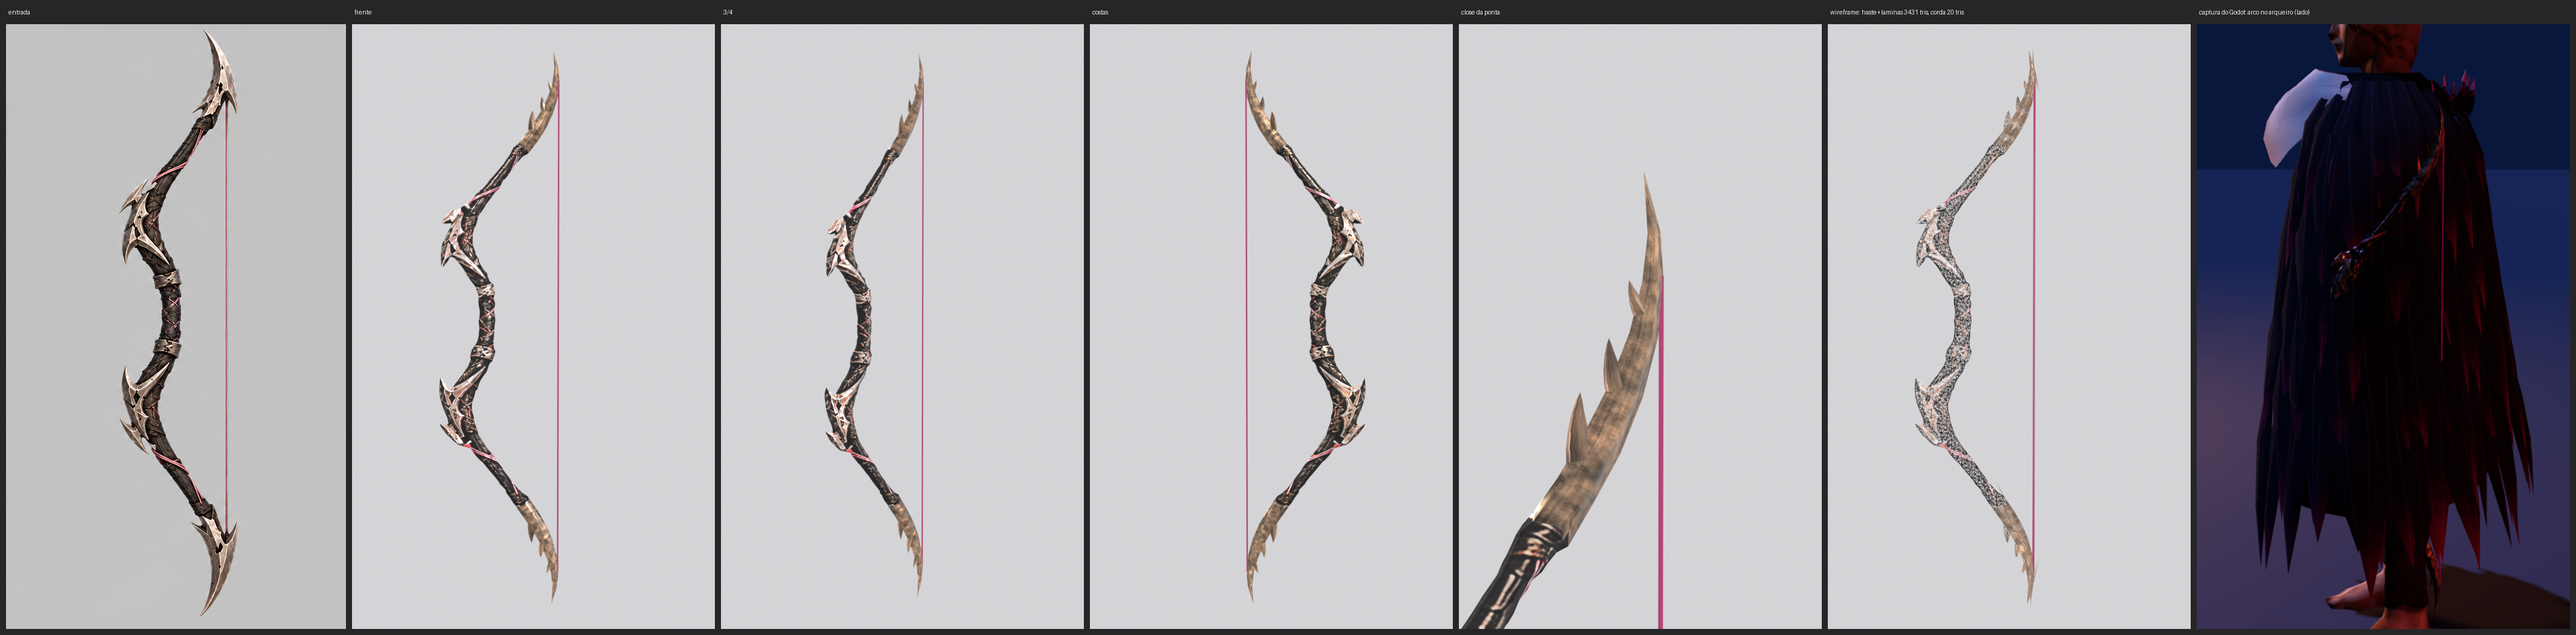
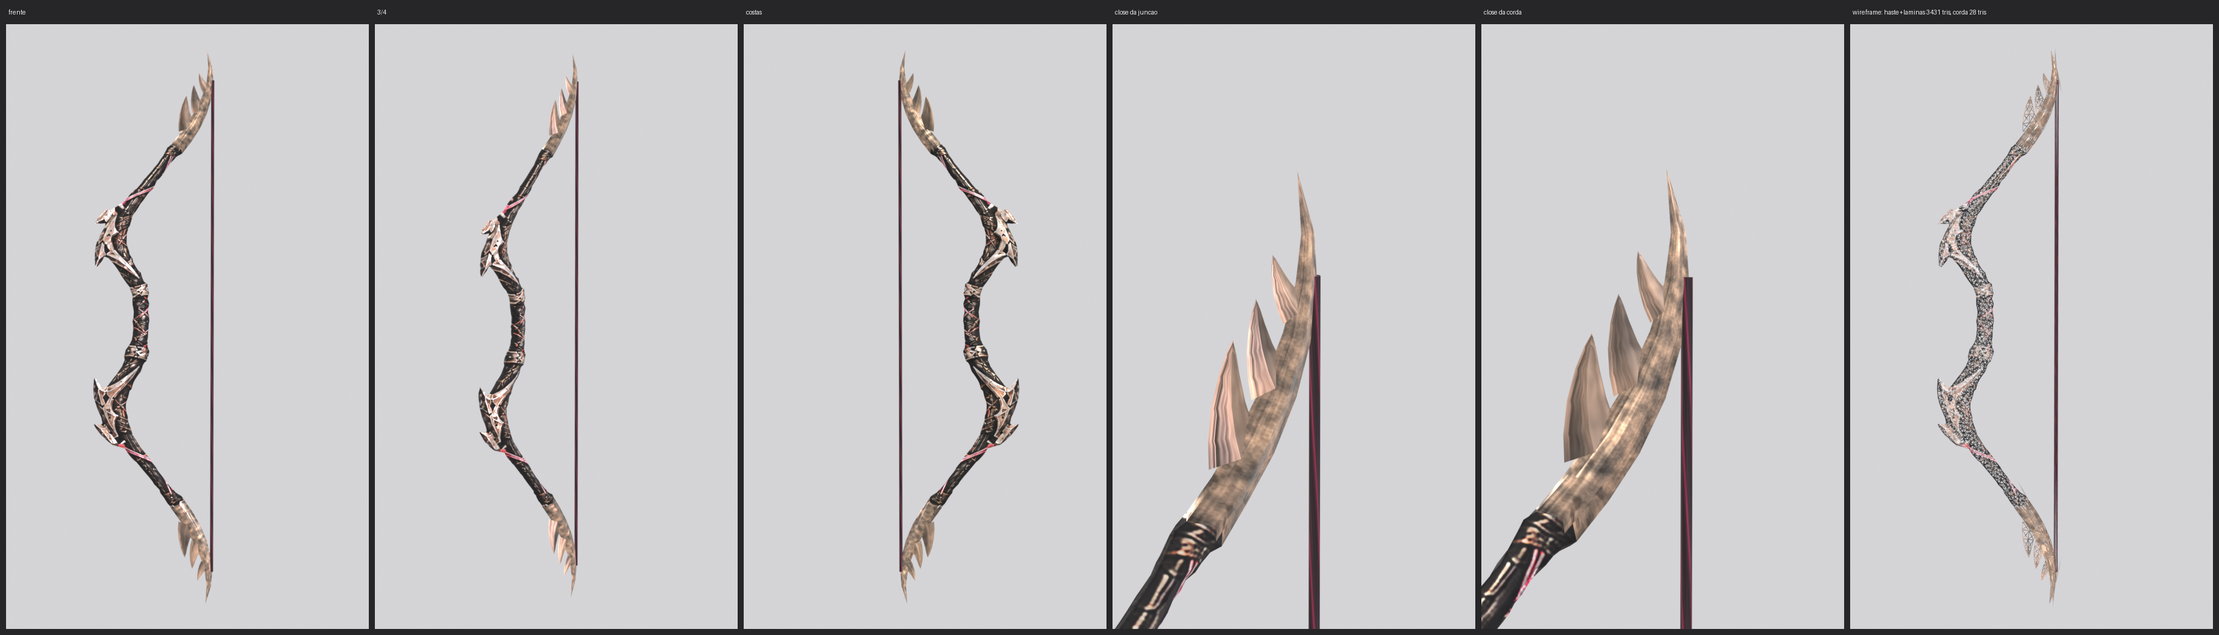
fix(arte): arco do arqueiro dark - espinhos na juncao, corda com espessura
Claude-Session: https://claude.ai/code/session_01WC4FgazM6iEKfa9eY6QmCj

diff --git a/art-src/modelos/scripts/arco_v4_export.py b/art-src/modelos/scripts/arco_v4_export.py
@@ -49,21 +49,43 @@ bpy.ops.object.join()
 bow = bpy.context.view_layer.objects.active; bow.name = "SM_ArcherDark_Bow"; bow.data.name = "SM_ArcherDark_Bow"
 for p_ in bow.data.polygons: p_.material_index = 0
 while len(bow.data.materials) > 1: bow.data.materials.pop(index=len(bow.data.materials) - 1)
-# --- corda: reta entre as ancoras, rosa-vinho fosco
+# --- corda: crina/couro trancado, 8 lados, raio 3,5 mm; textura de torcao (normal) e cor com cavidade (AO) gerada aqui
 a = Vector(inf["1"]["anchor"]); b = Vector(inf["-1"]["anchor"])
-R = 0.0017; d = (b - a).normalized(); u = d.cross(Vector((0, 1, 0))).normalized(); w = d.cross(u).normalized()
+R = 0.0035; NS = 8; d = (b - a).normalized(); u = d.cross(Vector((0, 1, 0))).normalized(); w = d.cross(u).normalized()
 bm = bmesh.new(); ring = []
 for c in (a, b):
-    ring.append([bm.verts.new(c + (u * math.cos(2 * math.pi * j / 6) + w * math.sin(2 * math.pi * j / 6)) * R) for j in range(6)])
-for j in range(6): bm.faces.new((ring[0][j], ring[0][(j + 1) % 6], ring[1][(j + 1) % 6], ring[1][j]))
+    ring.append([bm.verts.new(c + (u * math.cos(2 * math.pi * j / NS) + w * math.sin(2 * math.pi * j / NS)) * R) for j in range(NS)])
+for j in range(NS): bm.faces.new((ring[0][j], ring[0][(j + 1) % NS], ring[1][(j + 1) % NS], ring[1][j]))
 bm.faces.new(ring[0][::-1]); bm.faces.new(ring[1])
 bmesh.ops.triangulate(bm, faces=bm.faces[:]); bmesh.ops.recalc_face_normals(bm, faces=bm.faces[:])
 me = bpy.data.meshes.new("SM_ArcherDark_BowString"); bm.to_mesh(me); bm.free()
+# UV: u = volta em torno do cordao (padrao 3 fios, inteiro = sem emenda vertical), v = ao longo (0 na ancora 1, 1 na ancora -1)
+suv = me.uv_layers.new(name="UVMap")
+for lp in me.loops:
+    co = me.vertices[lp.vertex_index].co; tt = (co - a).dot(d); rel = co - a - d * tt
+    suv.data[lp.index].uv = (((math.atan2(rel.dot(w), rel.dot(u)) / (2 * math.pi)) % 1.0), tt / (b - a).length)
 so = bpy.data.objects.new("SM_ArcherDark_BowString", me); bpy.context.scene.collection.objects.link(so)
-sm = bpy.data.materials.new("M_ArcherDark_BowString"); sm.use_nodes = True
-b2 = sm.node_tree.nodes["Principled BSDF"]
-b2.inputs['Base Color'].default_value = (0.30, 0.025, 0.11, 1); b2.inputs['Roughness'].default_value = 0.78
-b2.inputs['Emission Color'].default_value = (0.75, 0.05, 0.26, 1); b2.inputs['Emission Strength'].default_value = 0.10
+# textura procedural de corda: 256 px, fios em diagonal (3 x 10 ciclos = repete sem emenda), fibra fina, cavidade escura, acento rosa nas cristas
+NT = 256; rr, cc = np.meshgrid(np.arange(NT) / NT, np.arange(NT) / NT, indexing="ij")   # linha = v, coluna = u
+Hh = 0.5 + 0.5 * np.cos(2 * np.pi * (3 * cc + 10 * rr)); Hf = 0.5 + 0.5 * np.cos(2 * np.pi * (12 * cc + 40 * rr))
+H = Hh + 0.22 * Hf
+gx = (np.roll(H, -1, 1) - np.roll(H, 1, 1)) / 2; gy = (np.roll(H, -1, 0) - np.roll(H, 1, 0)) / 2
+nv = np.dstack([-gx * 3.0, -gy * 3.0, np.ones_like(H)]); nv /= np.linalg.norm(nv, axis=2, keepdims=True)
+nrgb = np.dstack([nv * 0.5 + 0.5, np.ones_like(H)])
+cav = 0.42 + 0.58 * Hh ** 0.8                                                  # sombra nos sulcos
+base = np.array([0.20, 0.025, 0.09]); pink = np.array([0.62, 0.15, 0.31])
+crest = np.clip(Hh - 0.86, 0, 1) / 0.14
+bc = base[None, None, :] * cav[..., None] * (0.9 + 0.1 * Hf[..., None]) + pink[None, None, :] * (0.55 * crest[..., None])
+bcrgba = np.dstack([np.clip(bc, 0, 1), np.ones_like(H)])
+def strimg(name, arr, cs):
+    im = bpy.data.images.new(name, width=NT, height=NT, alpha=True); im.colorspace_settings.name = cs
+    im.pixels.foreach_set(arr.astype(np.float32).ravel()); im.pack(); return im
+sm = bpy.data.materials.new("M_ArcherDark_BowString"); sm.use_nodes = True; snt = sm.node_tree
+b2 = snt.nodes["Principled BSDF"]; b2.inputs['Roughness'].default_value = 0.72; b2.inputs['Metallic'].default_value = 0.0
+tbc = snt.nodes.new('ShaderNodeTexImage'); tbc.image = strimg("T_ArcherDark_Bow_String_BC", bcrgba, 'sRGB'); snt.links.new(tbc.outputs[0], b2.inputs['Base Color'])
+tnm = snt.nodes.new('ShaderNodeTexImage'); tnm.image = strimg("T_ArcherDark_Bow_String_N", nrgb, 'Non-Color')
+nmp = snt.nodes.new('ShaderNodeNormalMap'); nmp.inputs['Strength'].default_value = 0.9
+snt.links.new(tnm.outputs[0], nmp.inputs['Color']); snt.links.new(nmp.outputs[0], b2.inputs['Normal'])
 so.data.materials.append(sm)
 # --- folga corda x haste (so vertices da haste: indices antes das laminas) e dimensoes
 Pw = np.array([v.co[:] for v in bow.data.vertices]); nh = len(Pw)

diff --git a/art-src/modelos/scripts/arco_v4_compor.py b/art-src/modelos/scripts/arco_v4_compor.py
@@ -4,8 +4,8 @@ from PIL import Image, ImageDraw
 r, out, th, tc = sys.argv[1:5]
 ARCO = r"D:\openclaude\_trabalho-claude\modelos3d\arqueiro_dark"
 ent = Image.open(os.path.join(ARCO, "entradas", "arq3d_arco.png")).convert("RGB").crop((480, 0, 1056, 1024))
-items = [("entrada", ent)] + [(n, Image.open(os.path.join(r, f + ".png")).convert("RGB")) for n, f in
-         (("frente", "frente"), ("3/4", "tq"), ("costas", "costas"), ("close da ponta", "close"), (f"wireframe: haste+laminas {th} tris, corda {tc} tris", "wire"))]
+items = [(n, Image.open(os.path.join(r, f + ".png")).convert("RGB")) for n, f in
+         (("frente", "frente"), ("3/4", "tq"), ("costas", "costas"), ("close da juncao", "close"), ("close da corda", "close2"), (f"wireframe: haste+laminas {th} tris, corda {tc} tris", "wire"))]
 h = 1000; tiles = [(n, i.resize((int(i.width * h / i.height), h), Image.LANCZOS)) for n, i in items]
 W = sum(t.width for _, t in tiles) + 10 * (len(tiles) + 1)
 S = Image.new("RGB", (W, h + 50), (38, 38, 40)); d = ImageDraw.Draw(S); x = 10

diff --git a/art-src/modelos/scripts/arco_v4_blade.py b/art-src/modelos/scripts/arco_v4_blade.py
@@ -7,7 +7,7 @@ import os, json, math, sys
 import numpy as np
 W3 = r"D:\openclaude\_trabalho-claude\modelos3d\arqueiro_dark\arco\work4"
 cut = json.load(open(os.path.join(W3, "cut.json")))
-P = dict(L=0.23, end_deg=-18.0, pw=1.6, grow=0.35, wp=1.3, bt=1.4, thick=1.15, spur_n=3, spur_L=0.040, spur_W=0.011, spur_phi=52.0)
+P = dict(L=0.23, end_deg=-18.0, pw=1.6, grow=0.35, wp=1.3, bt=1.4, thick=1.15, spur_n=3, spur_L=0.072, spur_W=0.019, spur_phi=52.0)
 for a in sys.argv[1:]:
     k, v = a.split("="); P[k] = float(v)
 TS = [0.0, 0.12, 0.26, 0.41, 0.56, 0.70, 0.83]
